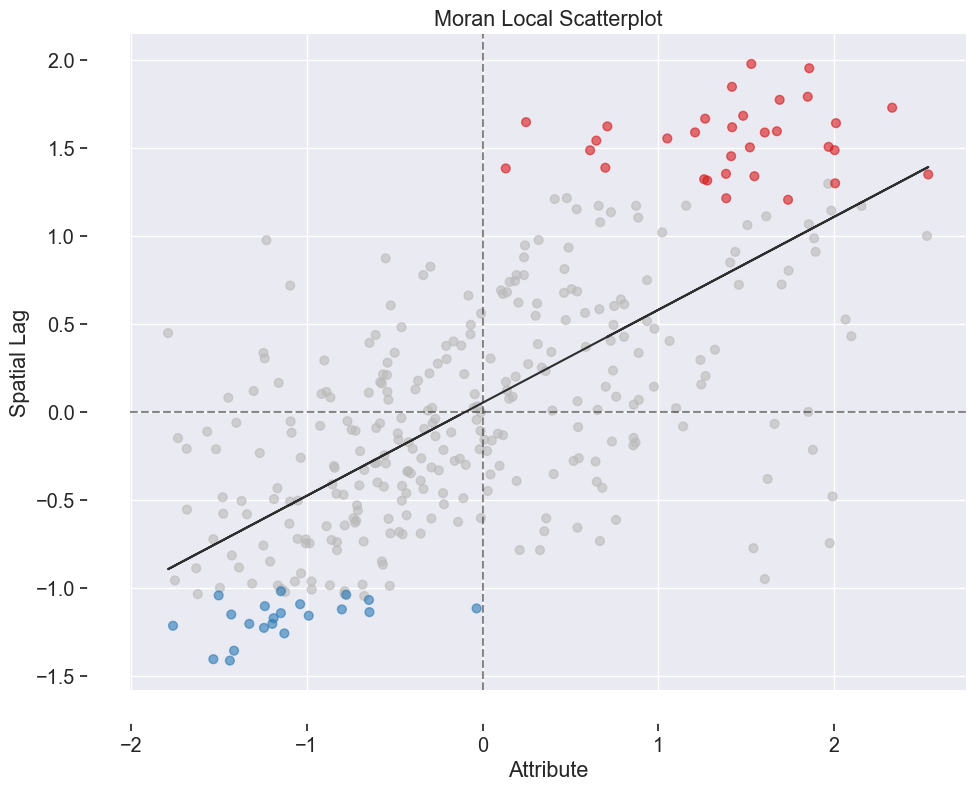
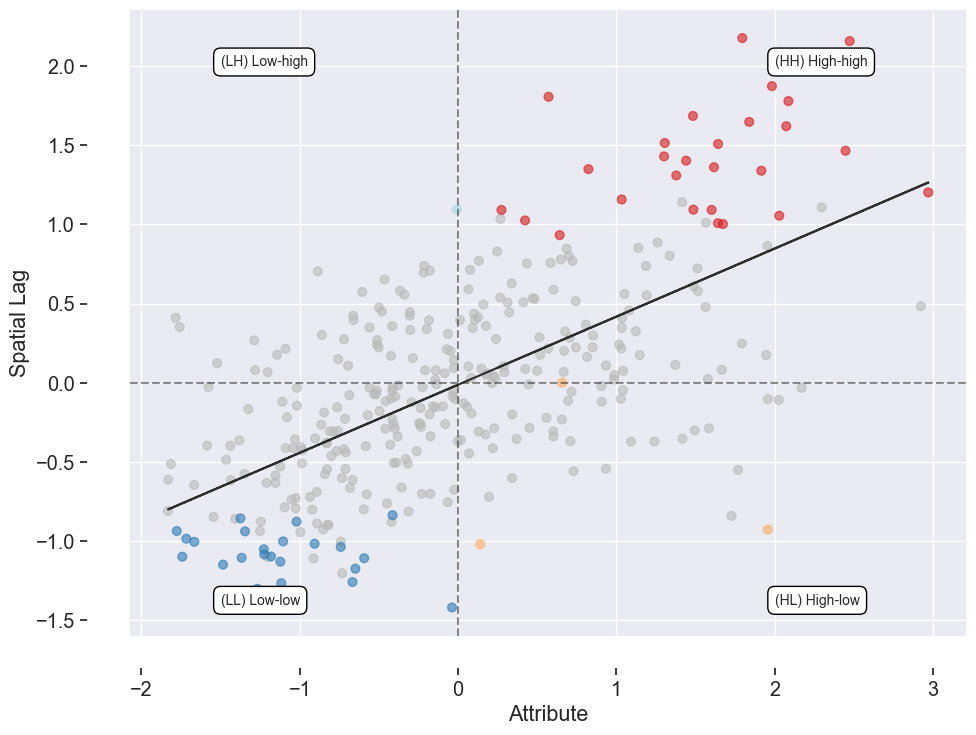
Modified a Graph - The scatterplot graph now shows the name of the quadrants in a label

diff --git a/06_Regional_queen.py b/06_Regional_queen.py
@@ -112,7 +112,7 @@ for i, (index, index_name) in enumerate(zip(sdg_indexes, sdg_names)):
     # ax.legend(title="Natural brakes")  
     ax.set_axis_off();
     ax.set_title("\n".join([index_name]), fontsize=43)
-    
+
 
 # fig.suptitle("Sustainable Development Goals Geospatial Patterns In Bolivian Municipalities",
 #             # y=0.98,
@@ -828,13 +828,24 @@ fig, ax = plt.subplots(nrows=1, ncols=1, figsize=(10,10))
 
 # colors = np.array(["gray", "red", "orange", "lightblue", "blue"])
 
-moran = esda.moran.Moran_Local(geo_municipalities['index_sdg1'], geo_municipalities_queen_w)
+moran = esda.moran.Moran_Local(geo_municipalities['index_sdg7'], geo_municipalities_queen_w)
 # significant = moran.p_sim < 0.01  # Adjust threshold if needed
 # quadrants = moran.q[significant]
 
 esdaplot.moran_scatterplot(moran,p=0.01,ax=ax,)
 # scatter.set_facecolor(colors[quadrants])
+ax.set_title("")
+ax.annotate('(HH) High-high', xy=(2, 2), xytext=(2, 2), fontsize=10,
+            bbox=dict(boxstyle='round,pad=0.5', fc='white', ec='black', lw=1))
 
+ax.annotate('(HL) High-low', xy=(2, -1.4), xytext=(2, -1.4), fontsize=10,
+            bbox=dict(boxstyle='round,pad=0.5', fc='white', ec='black', lw=1))
+
+ax.annotate('(LH) Low-high', xy=(-1.5, 2), xytext=(-1.5, 2), fontsize=10,
+            bbox=dict(boxstyle='round,pad=0.5', fc='white', ec='black', lw=1))
+
+ax.annotate('(LL) Low-low', xy=(-1.5, -1.4), xytext=(-1.5, -1.4), fontsize=10,
+            bbox=dict(boxstyle='round,pad=0.5', fc='white', ec='black', lw=1))
 
 fig.tight_layout()
 plt.show()
